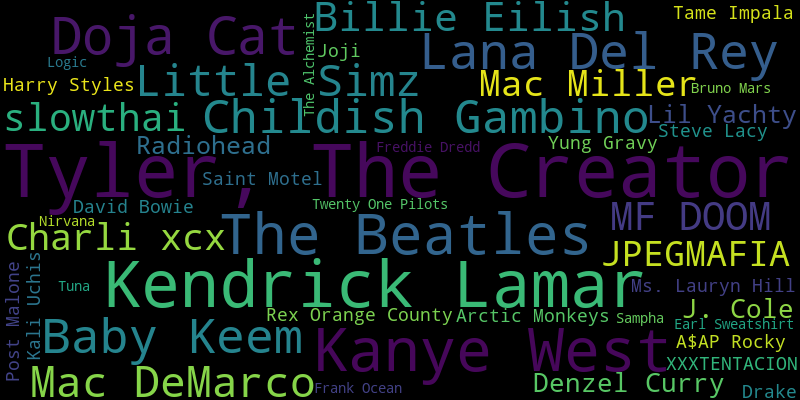
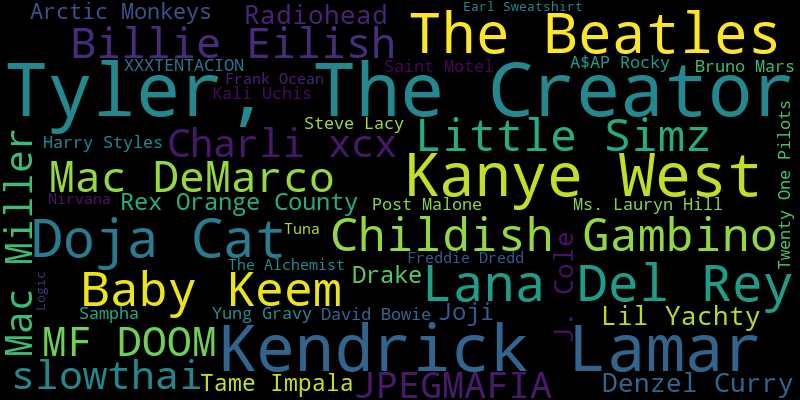
feat: :sparkles: first draft for wordcloud for top tracks!
color of the track based on the dominant color in album cover :))

diff --git a/WordCloud/top_tracks_wordcloud.py b/WordCloud/top_tracks_wordcloud.py
@@ -1,0 +1,93 @@
+from pydantic import BaseModel, Field
+import spotipy
+from spotipy.oauth2 import SpotifyOAuth
+from dotenv import load_dotenv
+import os
+from wordcloud import WordCloud
+import requests
+from colorthief import ColorThief
+from io import BytesIO
+
+# Loading environment variables
+load_dotenv()
+
+client_id = os.getenv("CLIENT_ID")
+client_secret = os.getenv("CLIENT_SECRET")
+redirect_uri = os.getenv("REDIRECT_URI")
+
+scope = "user-top-read user-read-recently-played"
+
+
+sp = spotipy.Spotify(auth_manager=SpotifyOAuth(client_id=client_id,
+                                               client_secret=client_secret,
+                                               redirect_uri=redirect_uri,
+                                               scope=scope,
+                                               show_dialog=True))
+
+class TopTracksWordCloudInput(BaseModel):
+    number_of_tracks: int = Field(default=20, ge=10, se=50)
+    term: str = Field(pattern="^(short_term|medium_term|long_term)$")
+
+
+# Function to download the image from a URL
+def get_image_from_url(url):
+    response = requests.get(url)
+    response.raise_for_status()
+    return BytesIO(response.content)
+
+# Extract the dominant color using ColorThief
+def get_dominant_color(url):
+    image_data = get_image_from_url(url)
+    color_thief = ColorThief(image_data)
+    dominant_color = color_thief.get_color(quality=1)
+    # Convert to hex
+    return f"#{dominant_color[0]:02x}{dominant_color[1]:02x}{dominant_color[2]:02x}"
+
+
+def generate_top_track_wordcloud_by_album_color(input: TopTracksWordCloudInput):
+    top_tracks = sp.current_user_top_tracks(limit=input.number_of_tracks, time_range=input.term)
+
+    top_tracks_info = [{"track": track["name"],
+                    "artists": ", ".join(artist["name"] for artist in track["artists"]),
+                    "populatity": track["popularity"],
+                    "album_name": track["album"]["name"],
+                    "track_duration": f"{track['duration_ms'] // 60000}:{(track['duration_ms'] % 60000) // 1000:02}",
+                    "release_date": track["album"]["release_date"],
+                    "track_id": track["id"],
+                    "cover_color": get_dominant_color(top_tracks["items"][idx]["album"]["images"][0]["url"]),
+                    "place": idx + 1
+                    } for idx, track in enumerate(top_tracks["items"])]
+    
+    # Create a word frequency dictionary for the tracks
+    word_frequencies = {entry["track"]: 1 / entry["place"] for entry in top_tracks_info}
+
+    # Custom color function
+    def color_func(word, font_size, position, orientation, random_state=None, **kwargs):
+        return track_colors.get(word, "#000000")  # Default to black if no color is found
+
+    # Map each track to its cover color
+    track_colors = {entry["track"]: entry["cover_color"] for entry in top_tracks_info}
+
+
+    # Generate the word cloud
+    wordcloud = WordCloud(
+        width=800,
+        height=400,
+        background_color="white",
+        max_font_size=100,          # Adjust the maximum font size
+        relative_scaling=0.25,       # Reduce the impact of frequency on word size
+        contour_width=0.1,            # Thickness of the outline
+        contour_color="black"       # Color of the outline (white in this case)
+    ).generate_from_frequencies(word_frequencies)
+
+    wordcloud = wordcloud.recolor(color_func=color_func)
+
+    # Save the word cloud as an image
+    output_file = "wordcloud_top_artist.png"
+    wordcloud.to_file(output_file)
+    print(f"Word cloud saved as {output_file}")
+
+
+if __name__ == "__main__":
+    input_data = TopTracksWordCloudInput(number_of_tracks=45, term="long_term")
+    generate_top_track_wordcloud_by_album_color(input_data)
